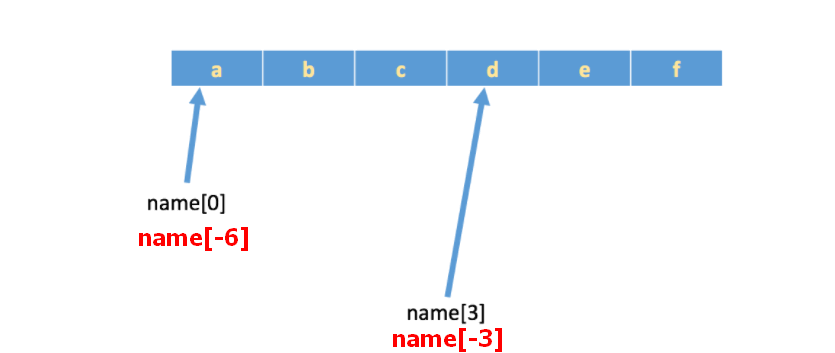
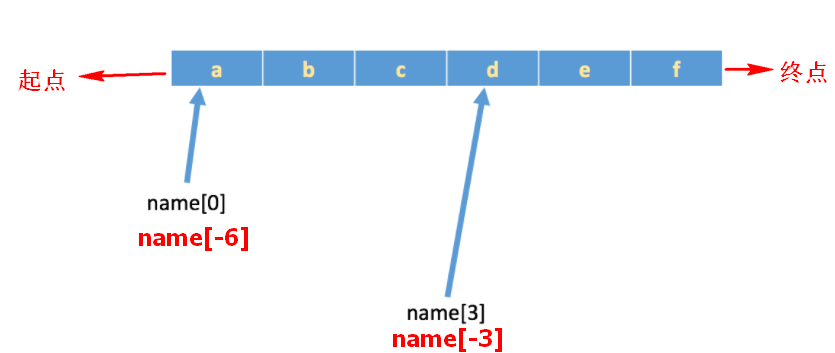
python切片补充

Changed region(s): [[0.0, 0.187, 0.218, 0.2805], [0.8719, 0.1558, 0.9964, 0.2493]]

diff --git a/source/_posts/pythonSlice.md b/source/_posts/pythonSlice.md
@@ -38,9 +38,18 @@ python中支持下标，同时也支持反向下标，
 
 > 切片是指对操作的对象截取其中一部分的操作。字符串、列表、元组都支持切片操作。
 
-**切片的语法：[起始:结束:步长]**
+**切片的语法：[start_index:end_index:step]**
 
-> 步长：默认为1，就是隔几个选一个，为负数表示反方向取。
+> 步长(step)：正负数均可，其绝对值大小决定了切取数据时的‘‘步长”，而正负号决定了“切取方向”，正表示“从左往右”取值，负表示“从右往左”取值。当step省略时，默认为1，即从左往右以步长1取值。**切取方向非常重要！切取方向非常重要！切取方向非常重要，重要的事情说三遍！**
+
+
+
+>start_index：表示起始索引（包含该索引对应值）；该参数省略时，表示从对象“**端点**”开始取值，至于是从“**起点**”还是从“**终点**”开始，则由step参数的正负决定，step为正从“**起点**”开始，为负从“**终点**”开始。
+
+
+>end_index：表示终止索引（不包含该索引对应值）；该参数省略时，表示一直取到数据“**端点**”，至于是到“**起点**”还是到“**终点**”，同样由step参数的正负决定，step为正时直到“**终点**”，为负时直到“**起点**”
+
+
 
 ### 1.切割字符串
 

diff --git a/source/_posts/pythonPlusPlus.md b/source/_posts/pythonPlusPlus.md
@@ -1,5 +1,5 @@
 ---
-title: python 支持自增(++)，自减(--)吗？
+title: Python 支持自增自减吗？
 index_img: /img/articleBg/1(23).jpg
 banner_img: /img/articleBg/1(23).jpg
 tags:
@@ -12,7 +12,7 @@ comment: 'off'
 date: 2020-12-01 21:35:38
 ---
 
-python中到底支不支持自增自减操作呢？
+python中到底支不支持自增(++)自减(--)操作呢？
 
 例如：i++,++i。
 
